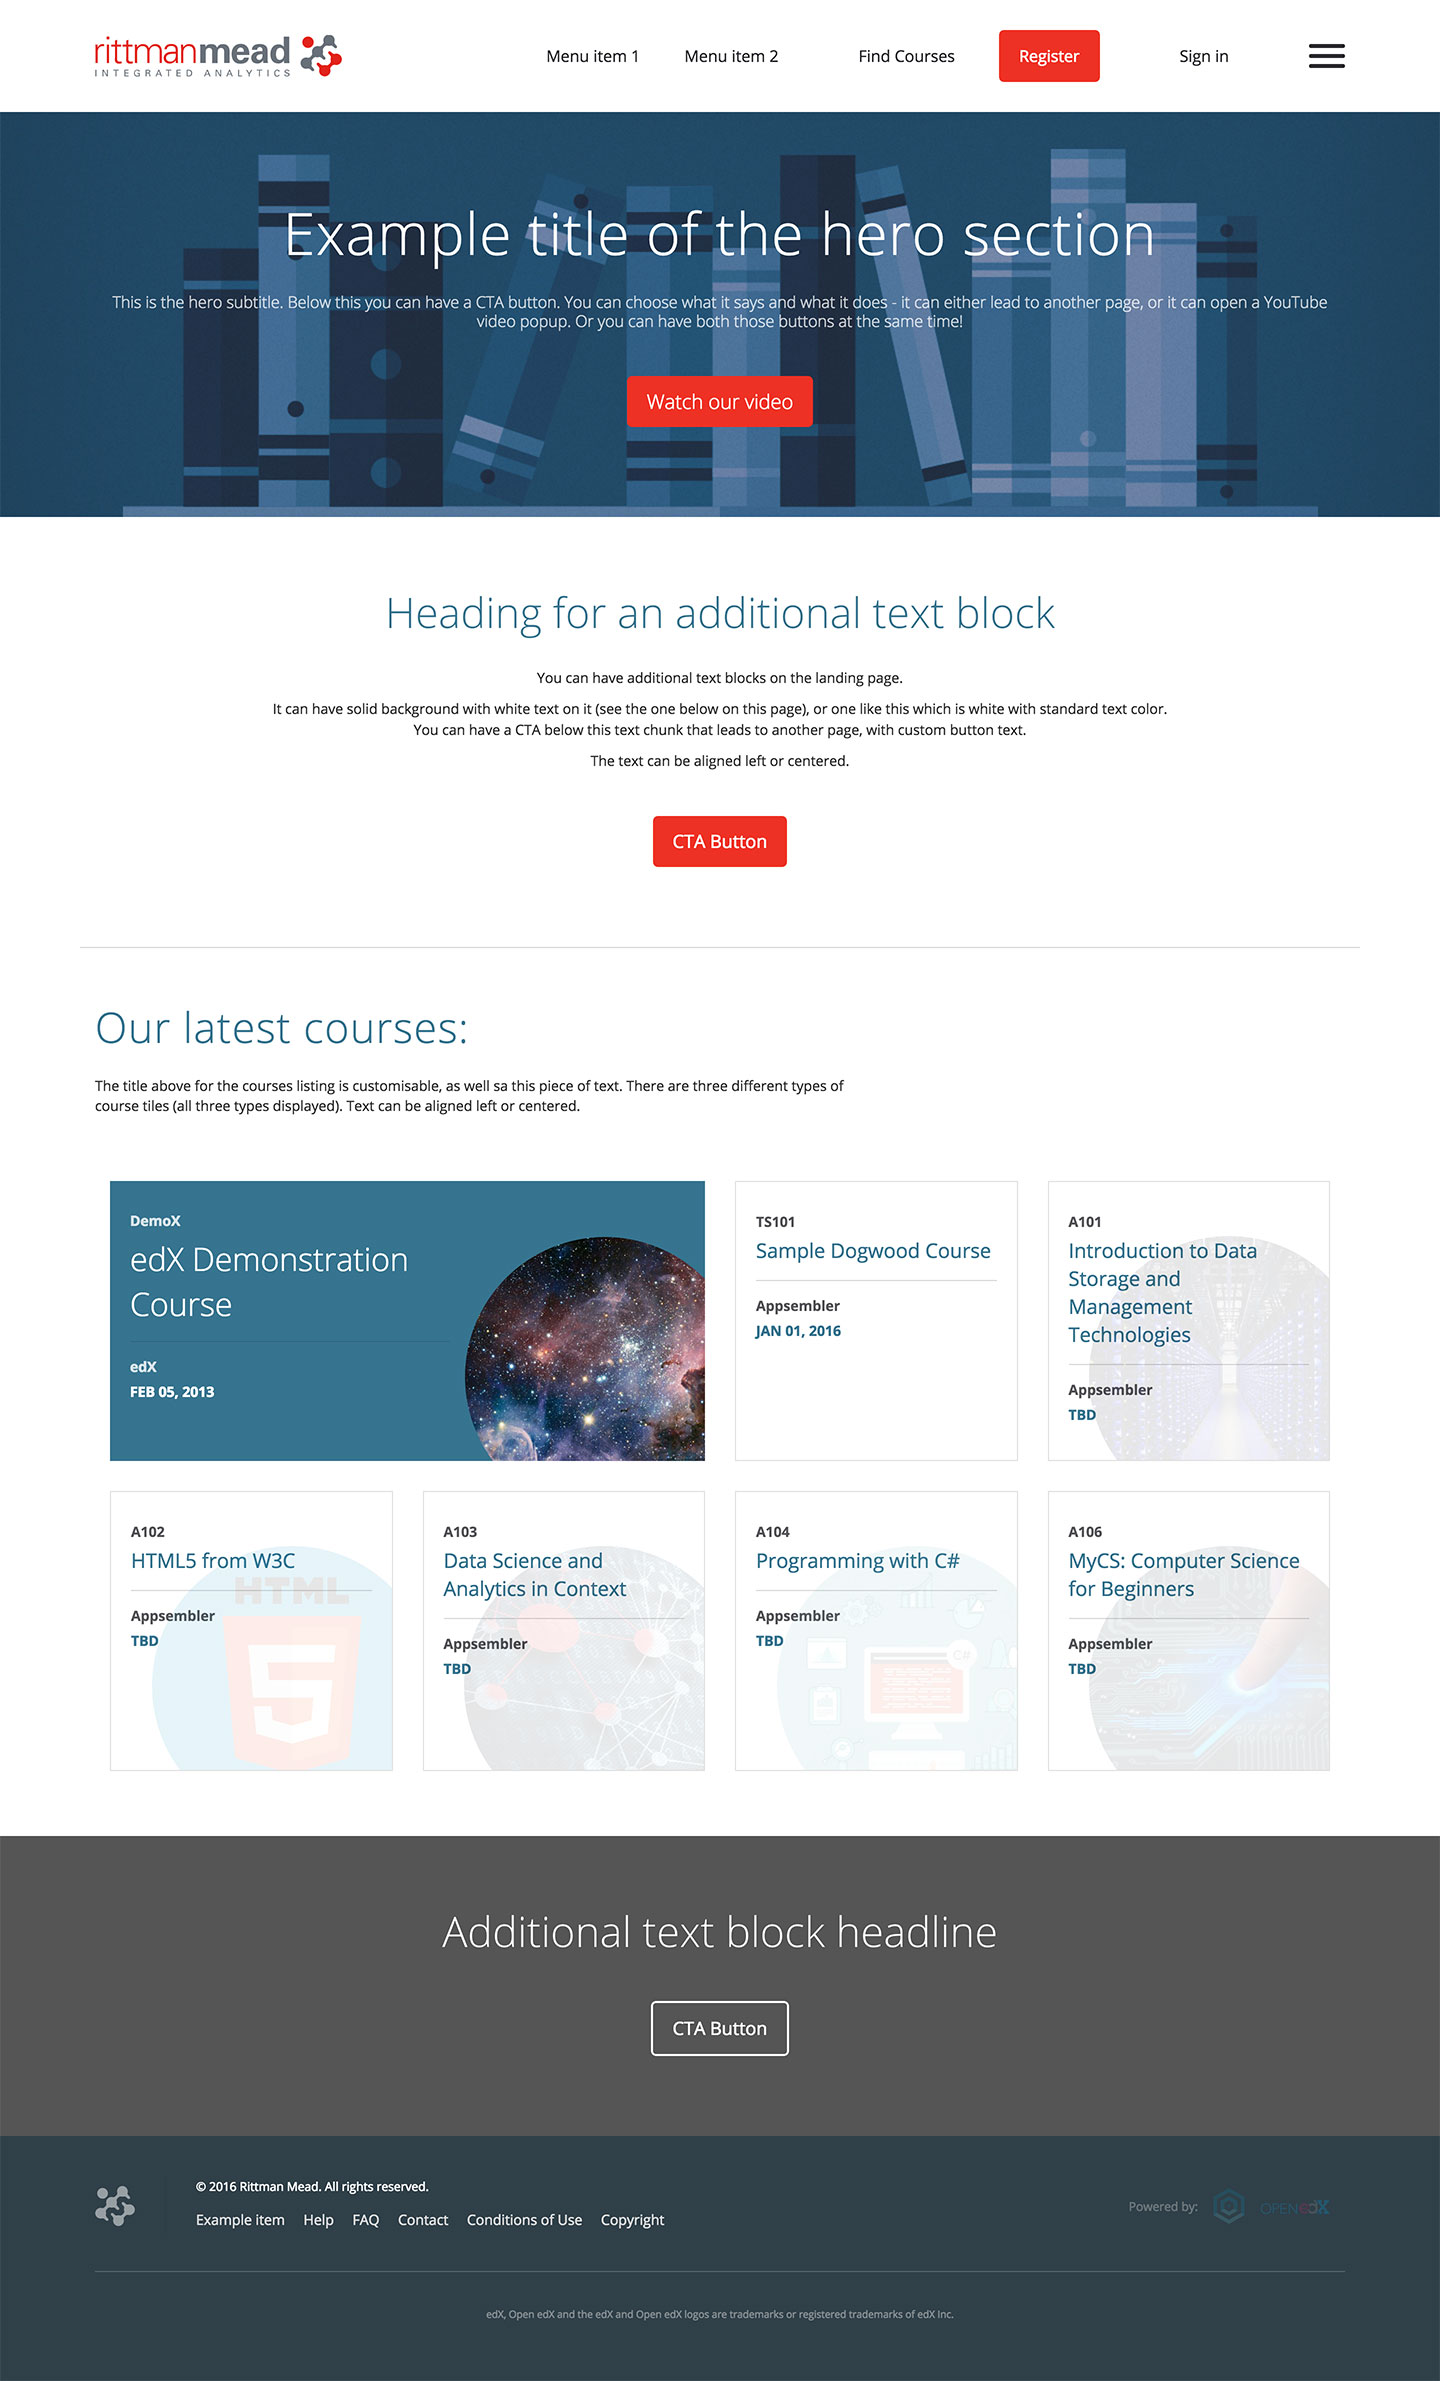
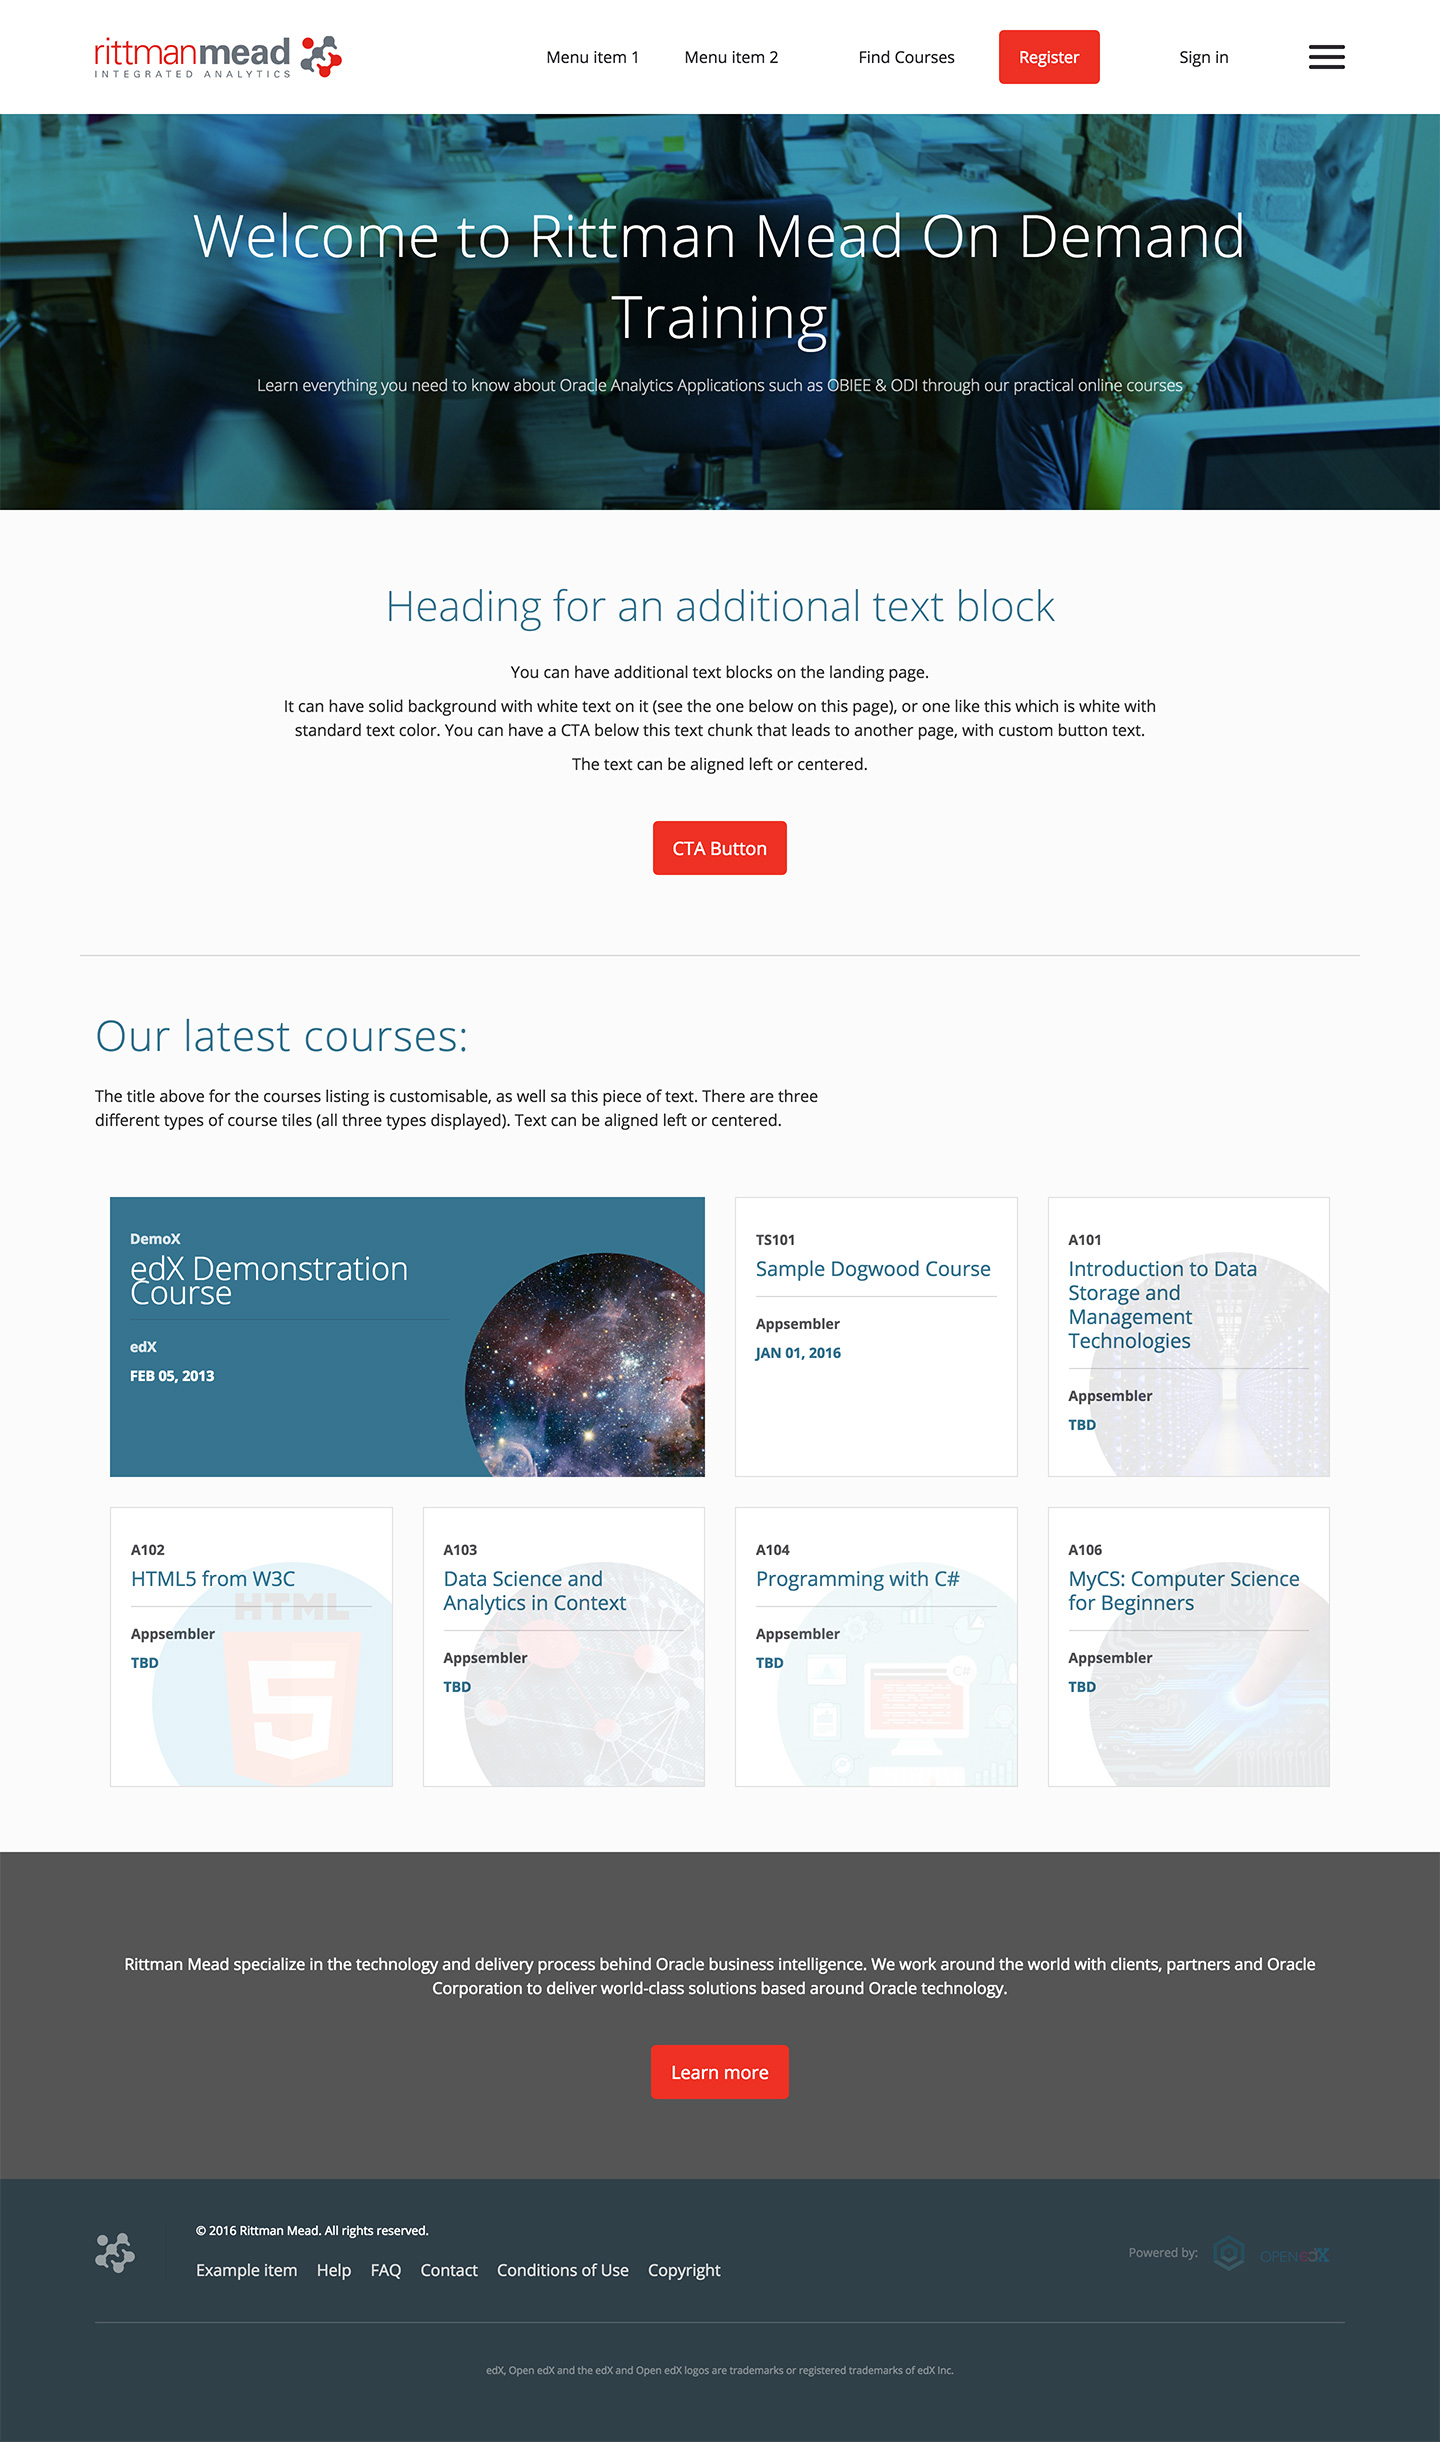
update theme with new customer provided content

diff --git a/templates/theme-variables.html b/templates/theme-variables.html
@@ -130,15 +130,15 @@
         [
           'static-block', 'static-blocks/_hero-section-01.html', {
             # template settings
-            'hero_title' : "Example title of the hero section", ## leave value empty if you don't want it displayed.
-            'hero_subtitle' : "This is the hero subtitle. Below this you can have a CTA button. You can choose what it says and what it does - it can either lead to another page, or it can open a YouTube video popup. Or you can have both those buttons at the same time!", ## leave value empty if you don't want it displayed.
+            'hero_title' : "Welcome to Rittman Mead On Demand Training", ## leave value empty if you don't want it displayed.
+            'hero_subtitle' : "Learn everything you need to know about Oracle Analytics Applications such as OBIEE & ODI through our practical online courses", ## leave value empty if you don't want it displayed.
             'cta_link' : "", ## leave value empty if you don't want a CTA button displayed.
             'cta_link_text' : "", ## leave value empty if you don't want a CTA button displayed.
-            'popup_video_url' : "r5YdS_ZjXnc", ## YouTube video ID - leave value empty if you don't want a video button and modal displayed.
-            'popup_video_text' : "Watch our video", ## leave value empty if you don't want a video button and modal displayed.
+            'popup_video_url' : "", ## YouTube video ID - leave value empty if you don't want a video button and modal displayed.
+            'popup_video_text' : "", ## leave value empty if you don't want a video button and modal displayed.
             'popup_video_id' : "HeroVideo", ## leave value empty if you don't want a video button and modal displayed.
             'text_color' : "#fff",
-            'bg_image_url' : '/static/themes/rittmanmead-dogwood/images/hero-image-02.jpg', ## leave empty if you want just a full color background
+            'bg_image_url' : '/static/themes/rittmanmead-dogwood/images/RittmanMeadTODHeader.jpg', ## leave empty if you want just a full color background
             'extra_css' : "" ## add custom css to be added inline to the wrapper element
           }
         ],
@@ -175,12 +175,14 @@
         [
           'static-block', 'static-blocks/_heading-plus-text-plus-cta.html', {
             # template settings
-            'heading' : "Additional text block headline", ## leave value empty if you don't want it displayed.
-            'text' : "", ## leave value empty if you don't want it displayed.
-            'cta_link' : "#", ## leave value empty if you don't want a CTA button displayed.
-            'cta_link_text' : "CTA Button", ## leave value empty if you don't want a CTA button displayed.
-            'optional_classes' : "centered negative", ## can be "centered" to have all text centered, or "negative" if you want white text on solid color background
-            'extra_css' : "background-color: #555555;" ## add custom css to be added inline to the wrapper element
+            'heading' : "", ## leave value empty if you don't want it displayed.
+            'text' : "Rittman Mead specialize in the technology and delivery process behind Oracle business intelligence. We work around the world with clients, partners and Oracle Corporation to deliver world-class solutions based around Oracle technology.", ## leave value empty if you don't want it displayed.
+            'cta_link' : "http://www.rittmanmead.com/about-us/", ## leave value empty if you don't want a CTA button displayed.
+            'cta_link_text' : "Learn more", ## leave value empty if you don't want a CTA button displayed.
+            'optional_classes' : "centered", ## can be "centered" to have all text centered, or "negative" if you want white text on solid color background
+            'text_color' : "#fff",
+            'background_color' : "#555",
+            'extra_css' : "" ## add custom css to be added inline to the wrapper element
           }
         ]
     ]
